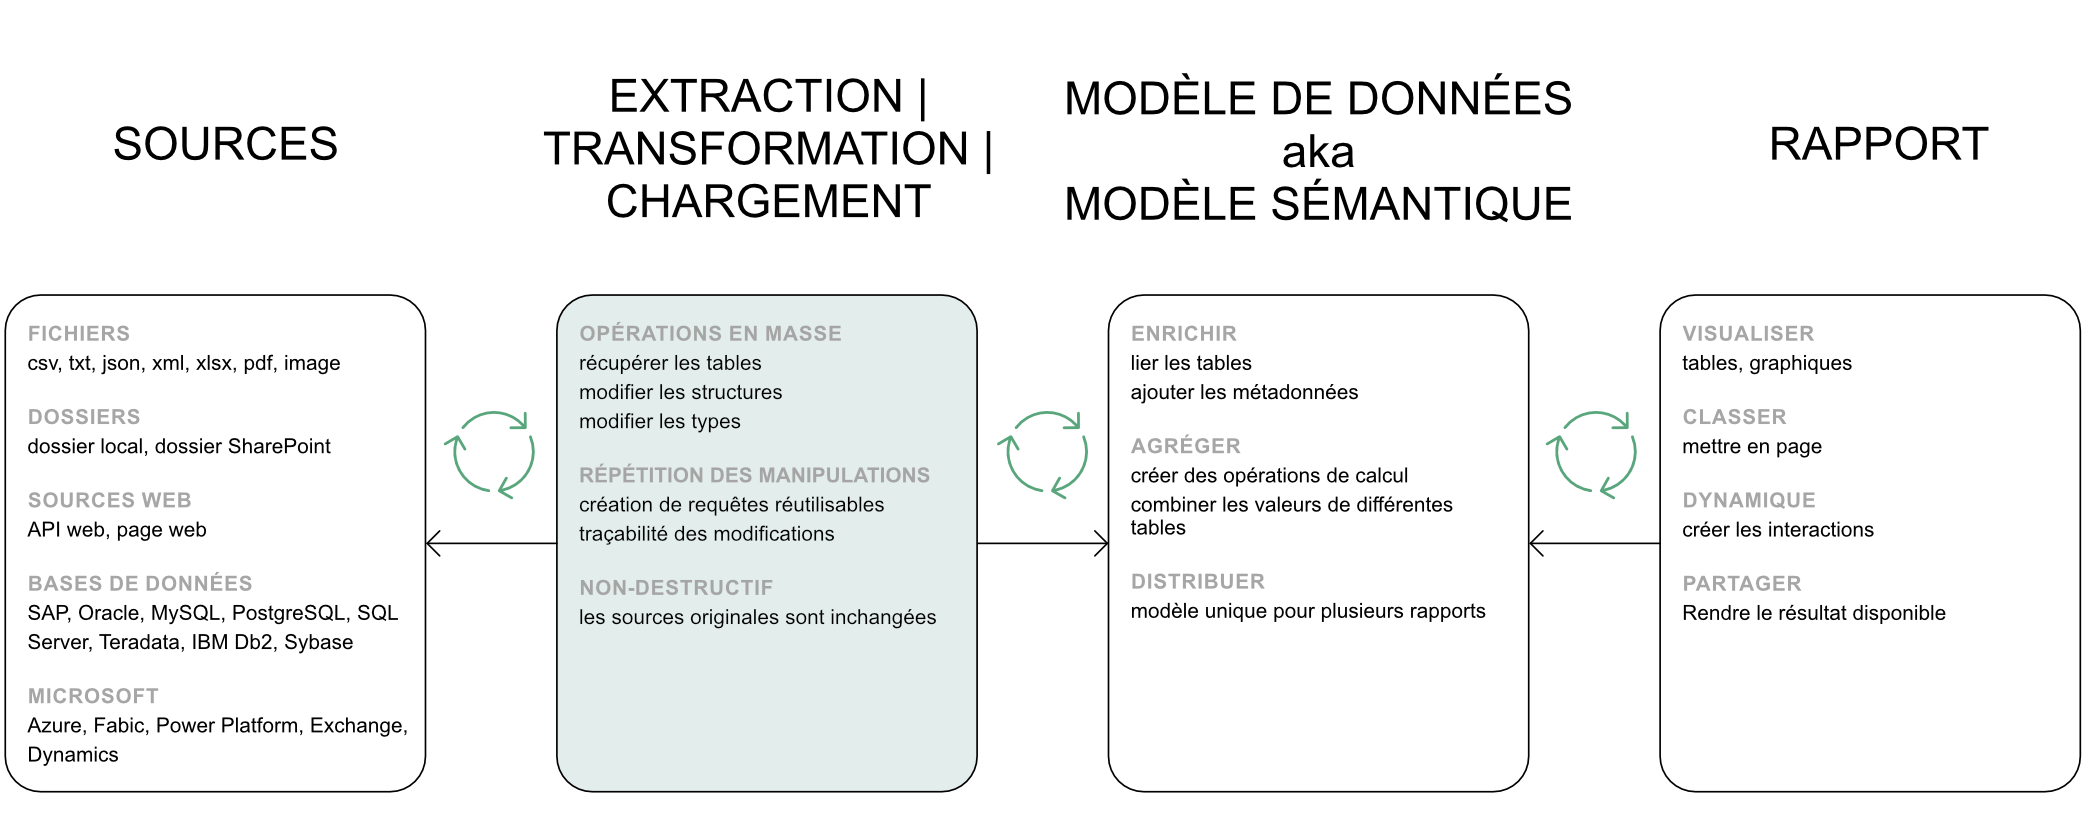
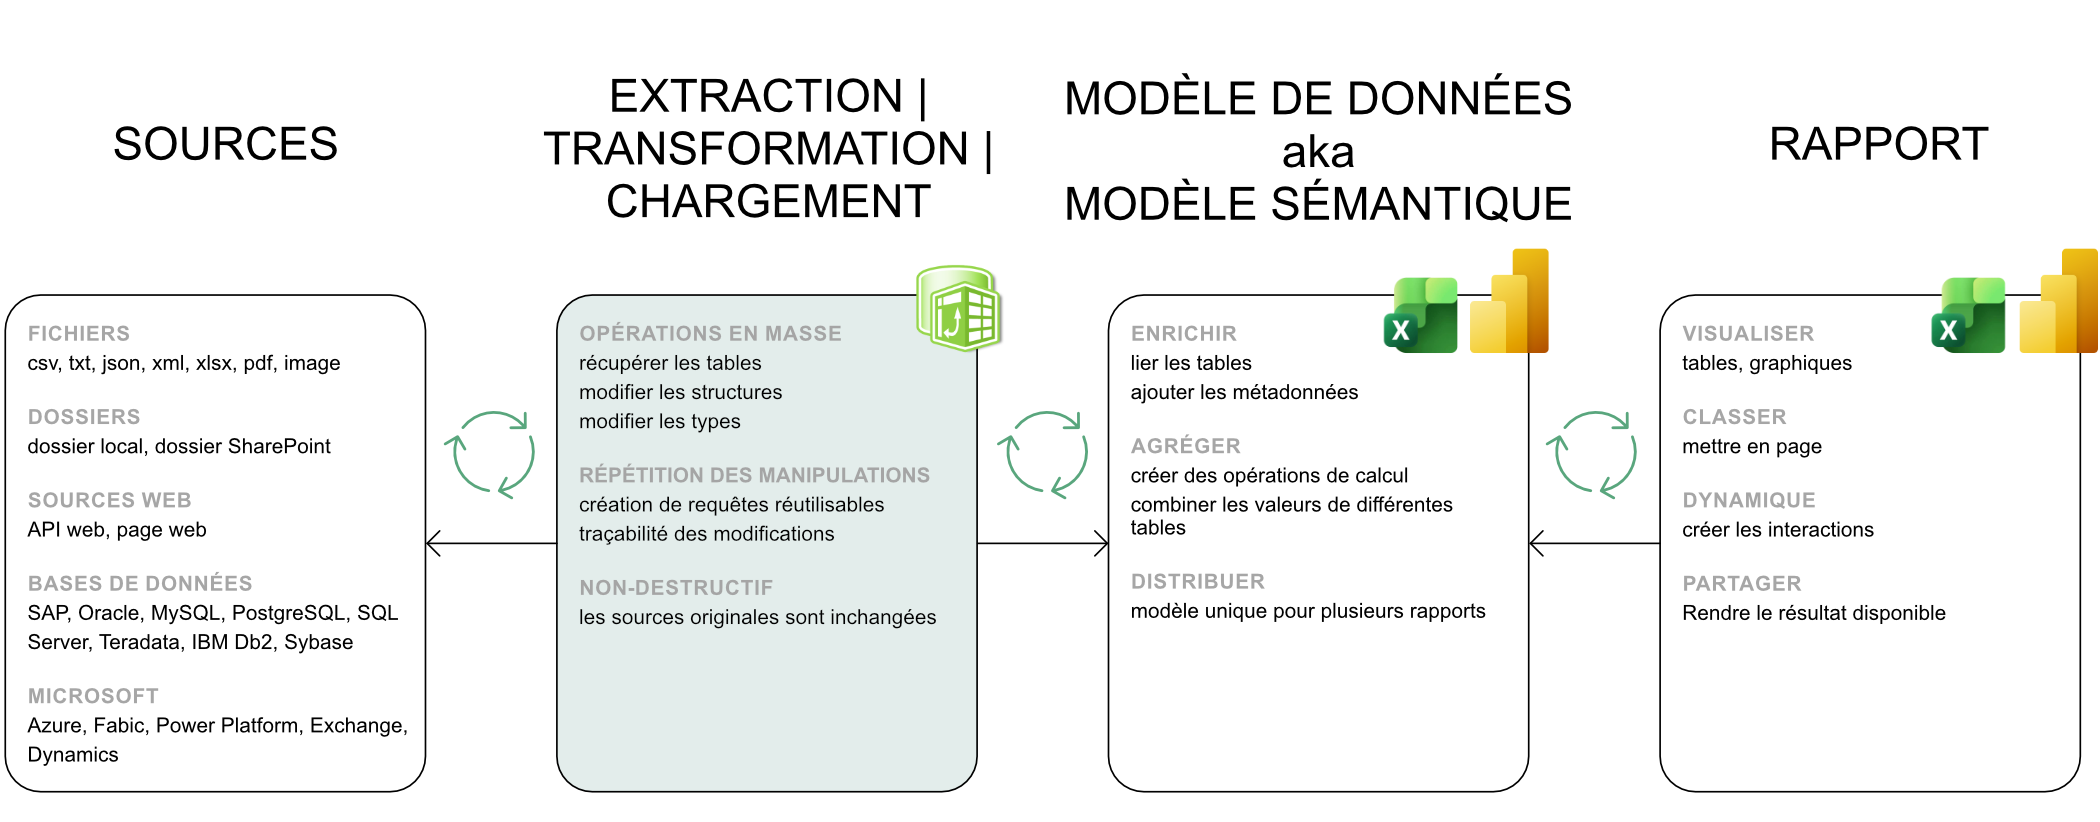
Mise à jour de la présentation

diff --git a/slides.md b/slides.md
@@ -72,7 +72,7 @@ hideInToc: true
   <img src="/assets/images/01-01-Extrait-Excel.png">
 </div>
 
-[Ouvrir le fichier Excel ↗](https://epflch.sharepoint.com/:x:/s/SISB-Stats-200_Formation/IQD-2Uy-n3KRSoa4HKn8lpGNAT8xiuJVx-Ga70HiMEI-Z8Y?e=KdUkLE){target="_blank" .demo-link}
+[Ouvrir le fichier Excel Demo-01 ↗](https://epflch-my.sharepoint.com/:x:/g/personal/genevieve_guex_epfl_ch/IQB5HvAo5dGrQ62nm2qBVIHcAVtSpBlB-xpWGvWoCqfJZiI?e=vk0662){target="_blank" .demo-link}
 
 Deux indicateurs de la Bibliothèque : entrées et prêts physiques.
 Que pouvons-nous en déduire?
@@ -209,7 +209,7 @@ Nos fichiers Excel sont souvent conçus pour être lus, beaucoup moins pour êtr
 </div>
 
 ---
-title: P09-La forme compte
+title: P09-Repenser la structure
 hideInToc: true
 ---
 
@@ -223,12 +223,12 @@ hideInToc: true
   <img src="/assets/images/02-01-Excel-depart.png" alt="USEP Récolte Démo">
 </div>
 
-[Ouvrir le fichier Excel ↗](https://epflch.sharepoint.com/:x:/s/SISB-Stats-200_Formation/IQBPG5SXz_APS5qRo_eL5dyIAcoxQj04_JAnq4fJmqOMkFo?e=S0HdfO){target="_blank" .demo-link}
+[Ouvrir le fichier Excel Demo-02 ↗](https://epflch-my.sharepoint.com/:x:/g/personal/genevieve_guex_epfl_ch/IQD4DGUEi9wMT7F7UE6337lfAYyKty0dOSYo1gKj1xE1nYc?e=blsZ7N){target="_blank" .demo-link}
 
 
 
 ---
-title: P10-La forme compte
+title: P10-Repenser la structure
 hideInToc: true
 ---
 
@@ -236,40 +236,20 @@ hideInToc: true
 
 <div class="eyebrow">02 · Repenser la structure</div>
 
-# Quelles sont les questions auxquelles <br> nous ne pouvons pas répondre?
+# Pourquoi ne pouvons-nous pas aller plus loin? <br>
 
-  
-**Évolution**
-- quelle est la moyenne par trimestre?
-- quel est le total par année académique (septembre-août)?
-- quelle est la différence par rapport au mois précédent (nombre ou pourcentage)?
-- quelle est la différence entre le nombre le plus haut et le nombre le plus bas (pourcentage)?
+**Nous devons séparer le format visuel du format d'analyse et construire notre fichier différemment**
+- nos valeurs doivent toutes se trouver dans une seule table
+- la table doit se mettre à jour toute seule lorsque les valeurs sont modifiées
 
-[Ouvrir le fichier Excel ↗](https://epflch.sharepoint.com/:x:/s/SISB-Stats-200_Formation/IQBPG5SXz_APS5qRo_eL5dyIAcoxQj04_JAnq4fJmqOMkFo?e=S0HdfO){target="_blank" .demo-link}
+
+
+
+[Ouvrir le fichier Excel Demo-03 ↗](https://epflch-my.sharepoint.com/:x:/g/personal/genevieve_guex_epfl_ch/IQDTNlCQQseQTbtmRilDdHvXATcgg0JkWO0n7B7ukFSfTFw?e=asMefe){target="_blank" .demo-link}
+
 
 ---  
 title: P11-La forme compte
-hideInToc: true
----
-
-<div class="apero-page-number">{{ $page }}</div>
-
-<div class="eyebrow">02 · Repenser la structure</div>
-
-# … et si nous désirons comparer 2026 <br> avec les années précédentes?	
-  
-**Saisonnalité**
-- est-ce que le mois de mai est toujours celui avec le plus d'entrées?
-- est-ce que nous avons une période durant laquelle les sollicitations sont plus hautes?
-
-**Évolution**
-- différence d'année en année (nombre, pourcent)
-
-[Ouvrir le fichier Excel ↗](https://epflch.sharepoint.com/:x:/s/SISB-Stats-200_Formation/IQBPG5SXz_APS5qRo_eL5dyIAcoxQj04_JAnq4fJmqOMkFo?e=S0HdfO){target="_blank" .demo-link}
-
-
----  
-title: P12-La forme compte
 hideInToc: true
 ---
 
@@ -283,11 +263,7 @@ hideInToc: true
   <img src="/assets/images/02-02-Excel-Arrivee.png" alt="USEP Récolte Démo">
 </div>
 
-[Ouvrir le fichier Excel ↗](https://epflch.sharepoint.com/:x:/s/SISB-Stats-200_Formation/IQBPG5SXz_APS5qRo_eL5dyIAcoxQj04_JAnq4fJmqOMkFo?e=S0HdfO){target="_blank" .demo-link}
-
-
-
-
+[Ouvrir le fichier Excel de départ ↗](https://epflch-my.sharepoint.com/:x:/g/personal/genevieve_guex_epfl_ch/IQB5GIJZ5GZyQYockbR11VZRAaaE5qfutF-6lp2tD4kpcI4?e=D44Dbz){target="_blank" .demo-link}
 
 ---
 title: 03 · Extraire - Transformer - Charger
@@ -312,7 +288,7 @@ Changer les formats des tables à chaque mise-à-jour n'est pas imaginable.
 </div>
 
 ---
-title: P14-ETL
+title: P13-ETL
 hideInToc: true
 ---
 
@@ -363,7 +339,7 @@ Sans modifier les fichiers d'origine. Et sans devoir écrire une ligne de code.
 
 
 ---
-title: P16-ETL
+title: P15-ETL
 hideInToc: true
 ---
 
@@ -380,11 +356,8 @@ Après avoir chargé vos différentes sources vous pouvez:
 - retravailler des formats de date
 - calculer de nouvelles valeurs avec des opérations mathématiques
 
-[Ouvrir le fichier Excel ↗](https://epflch.sharepoint.com/:x:/s/SISB-Stats-200_Formation/IQBqljyhjAo8SrSgqQdjHy6qAeNfPfeq_bgMY_APTOdBg1Q?e=gZ2OUb){target="_blank" .demo-link}
-
-
 ---
-title: P17-ETL
+title: P16-ETL
 hideInToc: true
 ---
 
@@ -395,17 +368,16 @@ hideInToc: true
 
 <div class="eyebrow">03 · Extraire - transformer - charger</div>
 
-# Démarrer Power Query
+# Démarrer la transformation
 
 Power Query se lance depuis l'onglet `Données` d'excel. Vous pouvez l'utiliser :
 
-- dans le même fichier que vos tables existantes  
+- dans le même fichier que vos tables existantes,  
   dans ce cas vous choisirez  
 `A partir d'un tableau ou d'une plage`
 
-- dans un fichier vide que vous liez à votre source  
-`A partir d'un fichier`  
-ou  
+- dans un fichier vide que vous liez à vos sources:  
+`A partir d'un fichier`  ou  
 `A partir d'un dossier`  
 pour récupérer plusieurs fichiers en vue d'un assemblage
 
@@ -418,7 +390,7 @@ pour récupérer plusieurs fichiers en vue d'un assemblage
 
 </div>
 
-[Ouvrir le fichier Excel ↗](https://epflch.sharepoint.com/:x:/s/SISB-Stats-200_Formation/IQBqljyhjAo8SrSgqQdjHy6qAeNfPfeq_bgMY_APTOdBg1Q?e=gZ2OUb){target="_blank" .demo-link}
+[Ouvrir le fichier Excel avec les étapes ↗](https://epflch-my.sharepoint.com/:x:/g/personal/genevieve_guex_epfl_ch/IQCrj9uwrUZPRZcM-5qcYV2LAbTJD2QyJxhq8u3n5x8PJSM?e=mFM3nP){target="_blank" .demo-link}
 
 
 ---
